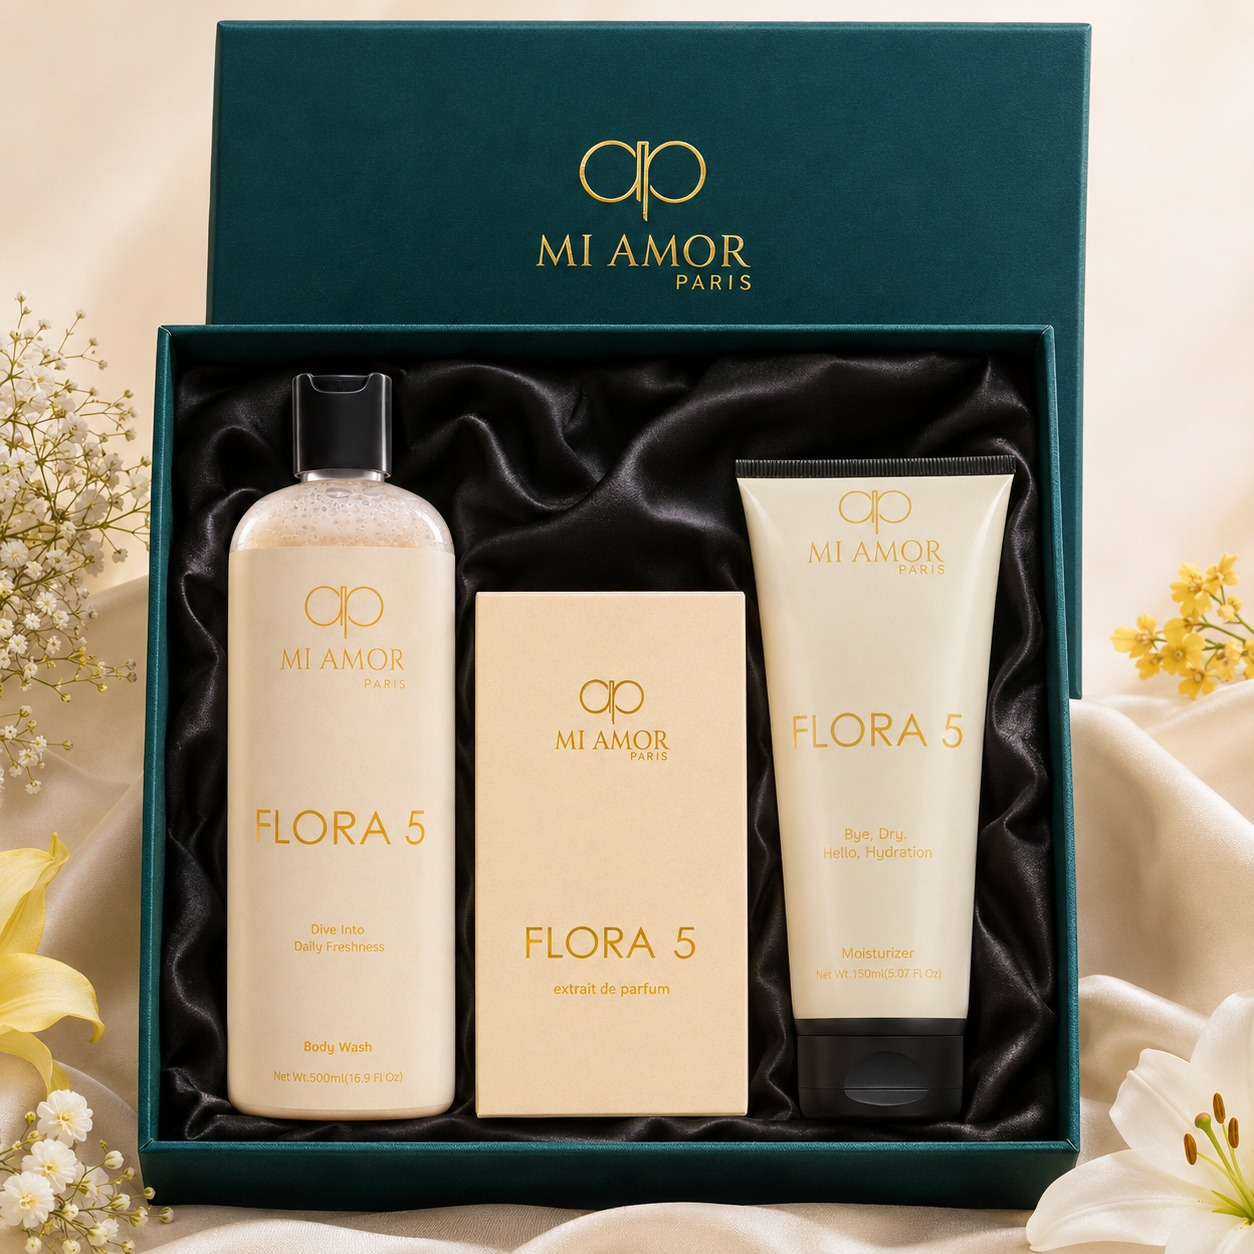
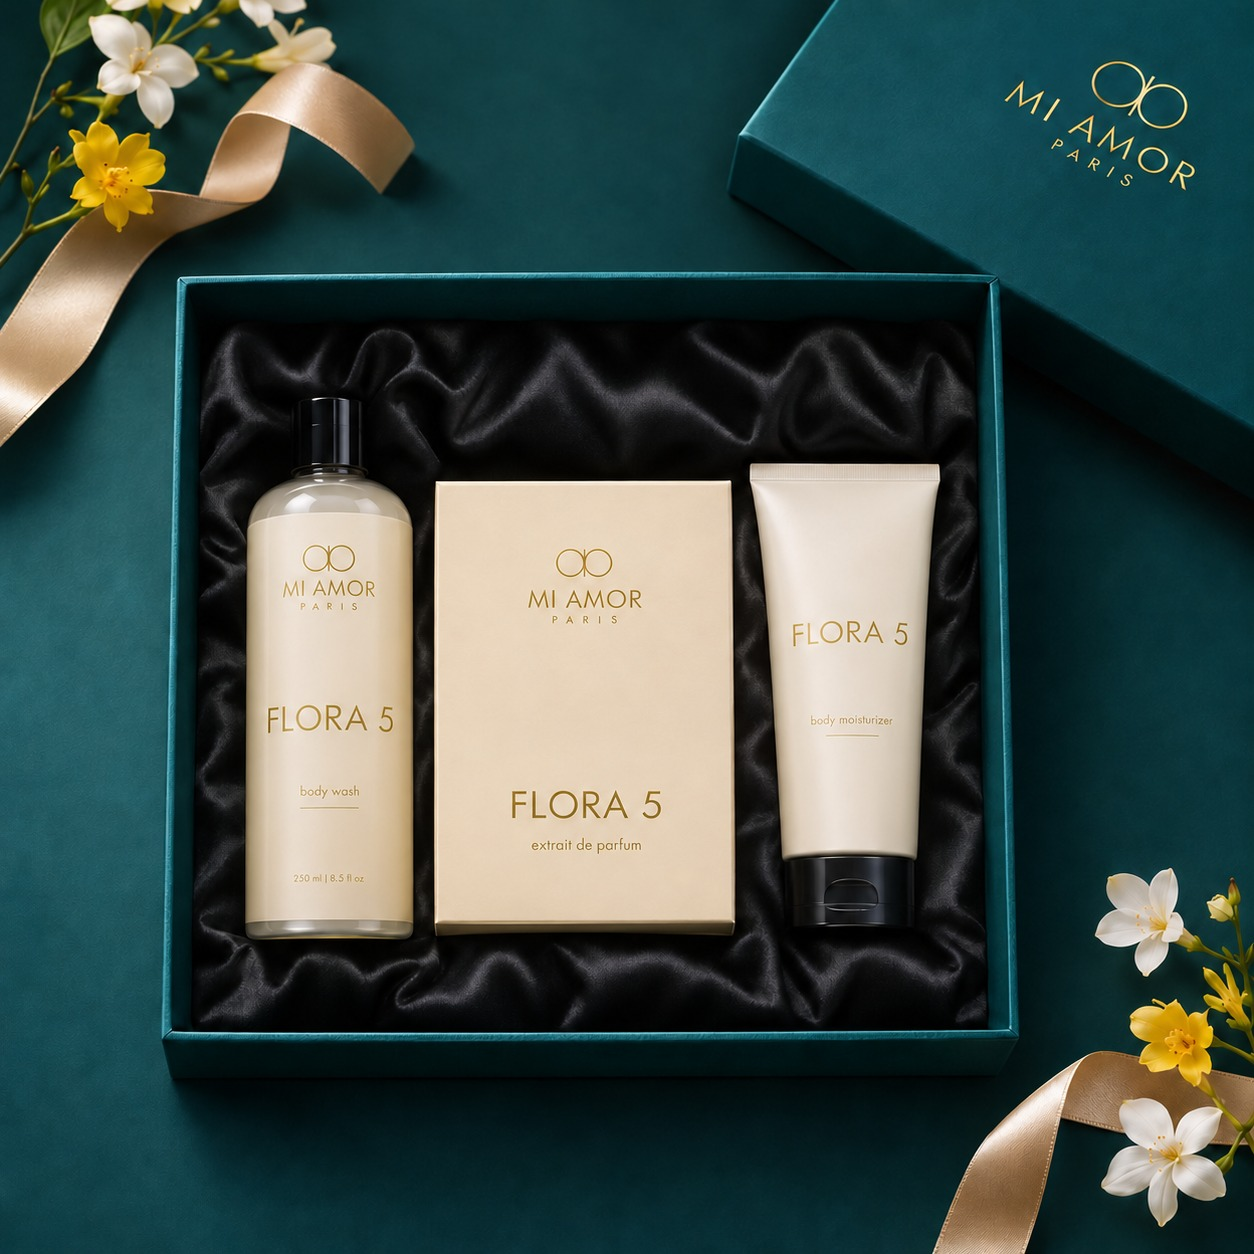
Gift boxes for her v2: BOGO-set offer cover, Delhi NCR 2-3h delivery*, new Flora 5 photo, sweets-vs-scent slide, how-to-gift slide
Claude-Session: https://claude.ai/code/session_01QfcZgk1TCxQfFsu6yjKqLd

diff --git a/posts/2026-11-03-gift-boxes-for-her/build.py b/posts/2026-11-03-gift-boxes-for-her/build.py
@@ -1,6 +1,6 @@
 """Diwali gift boxes FOR HER (Tannay, 3 Nov): emotional, premium, no prices ("DM for prices & Diwali deals").
 Each box = body wash + extrait de parfum + moisturizer of one scent, in the teal Mi Amor Paris box.
-Four for-her scents shown: Flora 5 (Maa), Love Is In The Air (the love of your life), Miss Poem (sister), Bouquet (you).
+Offer (Tannay 3 Nov): BUY ONE PERFUME, GET THE WHOLE DIWALI SET; Delhi NCR delivery in 2-3 hours* (*during office hours). Four for-her scents shown: Flora 5 (Maa), Love Is In The Air (the love of your life), Miss Poem (sister), Bouquet (you).
 Notes come from the Shopify listings. Box photos are Tannay's. Men's boxes teased as coming soon."""
 import random, numpy as np
 from PIL import Image, ImageDraw, ImageFont, ImageFilter, ImageEnhance
@@ -44,22 +44,46 @@ def logo(im, w, y):
     l = LOGO.resize((w, int(LOGO.height * w / LOGO.width)), Image.LANCZOS); s = Image.new("RGBA", l.size, GOLD + (0,)); s.putalpha(l.split()[3]); im.alpha_composite(s, ((W - w) // 2, y))
 def rule(d, y, w=160): d.line(((W - w) / 2, y, (W + w) / 2, y), fill=GOLD, width=2)
 
+def pill(im, y, text, f, sub=None):
+    d = ImageDraw.Draw(im); tw = d.textlength(text, font=f); x0, x1 = (W - tw) / 2 - 38, (W + tw) / 2 + 38
+    sh = Image.new("RGBA", (W, H)); ImageDraw.Draw(sh).rounded_rectangle((x0 + 6, y - 38 + 12, x1 + 6, y + 38 + 12), 38, fill=(0, 0, 0, 150)); im.alpha_composite(sh.filter(ImageFilter.GaussianBlur(10)))
+    d.rounded_rectangle((x0, y - 38, x1, y + 38), 38, fill=GOLD); d.rounded_rectangle((x0 + 5, y - 33, x1 - 5, y + 33), 33, outline=(255, 236, 190), width=1)
+    d.text((W / 2, y), text, font=f, fill=DEEP, anchor="mm")
+    if sub: c(d, y + 62, sub, pop(21), CHAMP)
+def hero(p, top=300):
+    q = p.resize((1080, 1080), Image.LANCZOS)
+    band = q.crop((0, 0, 1080, 90)).resize((1080, top + 120), Image.BICUBIC).filter(ImageFilter.GaussianBlur(26))
+    im = Image.new("RGB", (W, H)); im.paste(band, (0, 0)); m = Image.new("L", (1080, 1080), 255); md = ImageDraw.Draw(m)
+    for y in range(110): md.line((0, y, 1080, y), fill=int(255 * y / 110))
+    im.paste(q, (0, top), m); im = im.convert("RGBA")
+    v = Image.new("RGBA", (W, 420)); vd = ImageDraw.Draw(v)
+    for y in range(420): vd.line((0, y, W, y), fill=DEEP + (int(230 * (1 - y / 420) ** 1.3),))
+    im.alpha_composite(v); return im
+
 out = []
-# 1 cover: all four boxes
-im = bg(1); frame(im); logo(im, 58, 58); d = ImageDraw.Draw(im)
-c(d, 178, "This Diwali,", lora(76, True), CHAMP); c(d, 258, "gift her a feeling she can wear.", lora(52, True), CHAMP)
-c(d, 330, "THE GIFT BOX  ·  FOR HER", pop(25, "Medium"), GOLD)
-for p, x, y, a in [(FL, 98, 392, 3), (LI, 552, 400, -3), (MP, 98, 828, -2), (BQ, 552, 836, 3)]: card(im, p, x, y, 410, a, 5)
+# 1 cover: the offer + the delivery promise, on the Flora 5 box
+im = hero(FL, 270); d = ImageDraw.Draw(im)
+c(d, 64, "DIWALI GIFT BOX  ·  FOR HER", pop(24, "Medium"), GOLD)
+c(d, 150, "Buy one perfume,", lora(88, True), CHAMP); c(d, 248, "GET THE WHOLE DIWALI SET", pop(56, "Bold"), (255, 226, 160))
+v = Image.new("RGBA", (W, 260)); vd = ImageDraw.Draw(v)
+for y in range(260): vd.line((0, y, W, y), fill=DEEP + (int(215 * (y / 260) ** 1.2),))
+im.alpha_composite(v, (0, H - 260))
+pill(im, 1212, "DELHI NCR DELIVERY IN 2-3 HOURS*", pop(38, "Bold"), "*During office hours")
+frame(im); out.append(im)
+# 2 sweets vs scent, all four boxes
+im = bg(1); frame(im); d = ImageDraw.Draw(im)
+c(d, 120, "Mithai is gone by Bhai Dooj.", lora(56, True), SOFT); c(d, 196, "Her scent stays all year.", lora(64, True), CHAMP)
+c(d, 268, "FOUR WAYS TO SAY YOU THOUGHT OF HER", pop(23, "Medium"), GOLD)
+for p, x, y, a in [(FL, 98, 330, 3), (LI, 552, 338, -3), (MP, 98, 776, -2), (BQ, 552, 784, 3)]: card(im, p, x, y, 410, a, 5)
 out.append(im)
-# 2 the feeling
+# 3 the feeling
 im = bg(2, MP); frame(im); d = ImageDraw.Draw(im)
-lines = [("Every Diwali, she makes", 330), ("everything beautiful", 400), ("for everyone.", 470)]
-for s, y in lines: c(d, y, s, lora(62, True), CHAMP)
+for s_, y in [("Every Diwali, she makes", 330), ("everything beautiful", 400), ("for everyone.", 470)]: c(d, y, s_, lora(62, True), CHAMP)
 rule(d, 560)
-for s, y in [("The lights. The sweets. The guests.", 640), ("The memories that last all year.", 690)]: c(d, y, s, pop(30), SOFT)
+for s_, y in [("The lights. The sweets. The guests.", 640), ("The memories that last all year.", 690)]: c(d, y, s_, pop(30), SOFT)
 c(d, 830, "This year, give her", lora(62, True), CHAMP); c(d, 905, "something that's only hers.", lora(62, True), GOLD)
 c(d, 1180, "swipe  >>", pop(24), GOLD); out.append(im)
-# 3-6 one box per person
+# 4-7 one box per person
 people = [
     (FL, 3, "For Maa,", "who made every Diwali feel like home.", "FLORA 5", "Aldehyde & ylang-ylang  ·  jasmine  ·  amber & musk", "Graceful, powdery, timeless."),
     (LI, 4, "For the love of your life,", "because some feelings deserve a scent.", "LOVE IS IN THE AIR", "Grapefruit & black currant  ·  rose & water lily  ·  blackberry", "Romantic, fruity, unforgettable."),
@@ -72,28 +96,31 @@ for p, seed, head, sub, name, notes, mood in people:
     card(im, p, 124, 240, 820, 0, 6); d = ImageDraw.Draw(im)
     c(d, 1138, name + "  GIFT BOX", pop(30, "Bold"), GOLD); c(d, 1190, notes, pop(23), CHAMP); c(d, 1236, mood, lora(30, True), SOFT)
     out.append(im)
-# 7 what's inside: closer look inside the Flora 5 box (all three products whole)
+# 8 what's inside (new Flora 5 box photo)
 im = bg(7); frame(im); d = ImageDraw.Draw(im)
 c(d, 112, "The whole ritual,", lora(64, True), CHAMP); c(d, 186, "in one box.", lora(64, True), CHAMP)
-cx0, cy0, cx1, cy1 = 160, 340, 1070, 1150; crop = FL.crop((cx0, cy0, cx1, cy1)); cw = 860; chh = int(cw * (cy1 - cy0) / (cx1 - cx0))
+cx0, cy0, cx1, cy1 = 200, 300, 990, 1010; crop = FL.crop((cx0, cy0, cx1, cy1)); cw = 860; chh = int(cw * (cy1 - cy0) / (cx1 - cx0))
 q = crop.resize((cw, chh), Image.LANCZOS).convert("RGBA"); bx = Image.new("RGBA", (cw + 12, chh + 12), GOLD + (255,)); bx.alpha_composite(q, (6, 6))
 X, Y = (W - cw - 12) // 2, 250
 sh = Image.new("RGBA", (W, H)); sa = Image.new("RGBA", bx.size, (0, 0, 0, 150)); sh.alpha_composite(sa, (X + 12, Y + 26)); im.alpha_composite(sh.filter(ImageFilter.GaussianBlur(18))); im.alpha_composite(bx, (X, Y))
 d = ImageDraw.Draw(im); k = cw / (cx1 - cx0); yb = Y + chh + 12
-for i, (sx, lab) in enumerate([(340, "BODY WASH"), (612, "EXTRAIT DE PARFUM"), (875, "MOISTURIZER")]):
-    x = X + 6 + (sx - cx0) * k; d.line((x, yb + 8, x, yb + 36), fill=GOLD, width=2)
-    c(d, yb + 62, f"0{i + 1}", lora(32, True), GOLD, x); c(d, yb + 100, lab, pop(19, "Bold"), CHAMP, x)
-c(d, 1250, "Black satin, gold foil, one scent from head to toe. Nothing to wrap.", pop(22), SOFT); out.append(im)
-# 8 CTA + for him teaser
-im = bg(8, BQ); frame(im); logo(im, 70, 150); d = ImageDraw.Draw(im)
-c(d, 330, "Choose her scent", lora(66, True), CHAMP); c(d, 406, "from our top 10.", lora(66, True), CHAMP)
-rule(d, 490)
-c(d, 590, "DM for prices", pop(58, "Bold"), CHAMP); c(d, 668, "& Diwali deals", pop(58, "Bold"), CHAMP)
-c(d, 760, "or visit us at O-17, Lajpat Nagar-II, New Delhi", pop(25), SOFT)
-d.rounded_rectangle((210, 900, 870, 1130), 18, outline=GOLD, width=2)
-c(d, 960, "FOR HIM", pop(30, "Bold"), GOLD); c(d, 1020, "Oud, spice and something bold.", lora(38, True), CHAMP); c(d, 1080, "Coming soon.", lora(38, True), CHAMP)
+for i, (sx, lab) in enumerate([(330, "BODY WASH"), (585, "EXTRAIT DE PARFUM"), (845, "MOISTURIZER")]):
+    x = X + 6 + (sx - cx0) * k; d.line((x, yb + 8, x, yb + 34), fill=GOLD, width=2)
+    c(d, yb + 58, f"0{i + 1}", lora(32, True), GOLD, x); c(d, yb + 94, lab, pop(19, "Bold"), CHAMP, x)
+c(d, 1252, "Black satin, gold foil, one scent from head to toe. Nothing to wrap.", pop(22), SOFT); out.append(im)
+# 9 how to gift + CTA + for him teaser
+im = bg(8, BQ); frame(im); d = ImageDraw.Draw(im)
+c(d, 110, "Buy one perfume,", lora(58, True), CHAMP); c(d, 182, "get the whole Diwali set.", pop(42, "Bold"), (255, 226, 160))
+rule(d, 250)
+for i, (t1, t2) in enumerate([("Pick her scent", "from our top 10"), ("DM us", "for prices & Diwali deals"), ("We deliver", "in Delhi NCR within 2-3 hours*")]):
+    y = 340 + i * 150; d.ellipse((150, y - 40, 230, y + 40), outline=GOLD, width=2); c(d, y, str(i + 1), lora(44, True), GOLD, 190)
+    d.text((272, y - 20), t1, font=pop(34, "Bold"), fill=CHAMP, anchor="lm"); d.text((272, y + 24), t2, font=lora(32, True), fill=SOFT, anchor="lm")
+c(d, 790, "*During office hours  ·  or visit us at O-17, Lajpat Nagar-II", pop(21), SOFT)
+pill(im, 880, "DM FOR PRICES & DIWALI DEALS", pop(32, "Bold"))
+d = ImageDraw.Draw(im); d.rounded_rectangle((210, 1000, 870, 1220), 18, outline=GOLD, width=2)
+c(d, 1052, "FOR HIM", pop(30, "Bold"), GOLD); c(d, 1110, "Oud, spice and something bold.", lora(38, True), CHAMP); c(d, 1166, "Coming soon.", lora(38, True), CHAMP)
 out.append(im)
 for i, s in enumerate(out, 1): s.convert("RGB").save(f"slide_{i:02d}.jpg", quality=94)
-sheet = Image.new("RGB", (4 * 432 + 50, 2 * 540 + 30), (6, 20, 22))
-for i, s in enumerate(out): sheet.paste(s.convert("RGB").resize((432, 540)), (10 + (i % 4) * 442, 10 + (i // 4) * 550))
+sheet = Image.new("RGB", (5 * 432 + 60, 2 * 540 + 30), (6, 20, 22))
+for i, s in enumerate(out): sheet.paste(s.convert("RGB").resize((432, 540)), (10 + (i % 5) * 442, 10 + (i // 5) * 550))
 sheet.save("csheet.jpg", quality=88); print(len(out))
